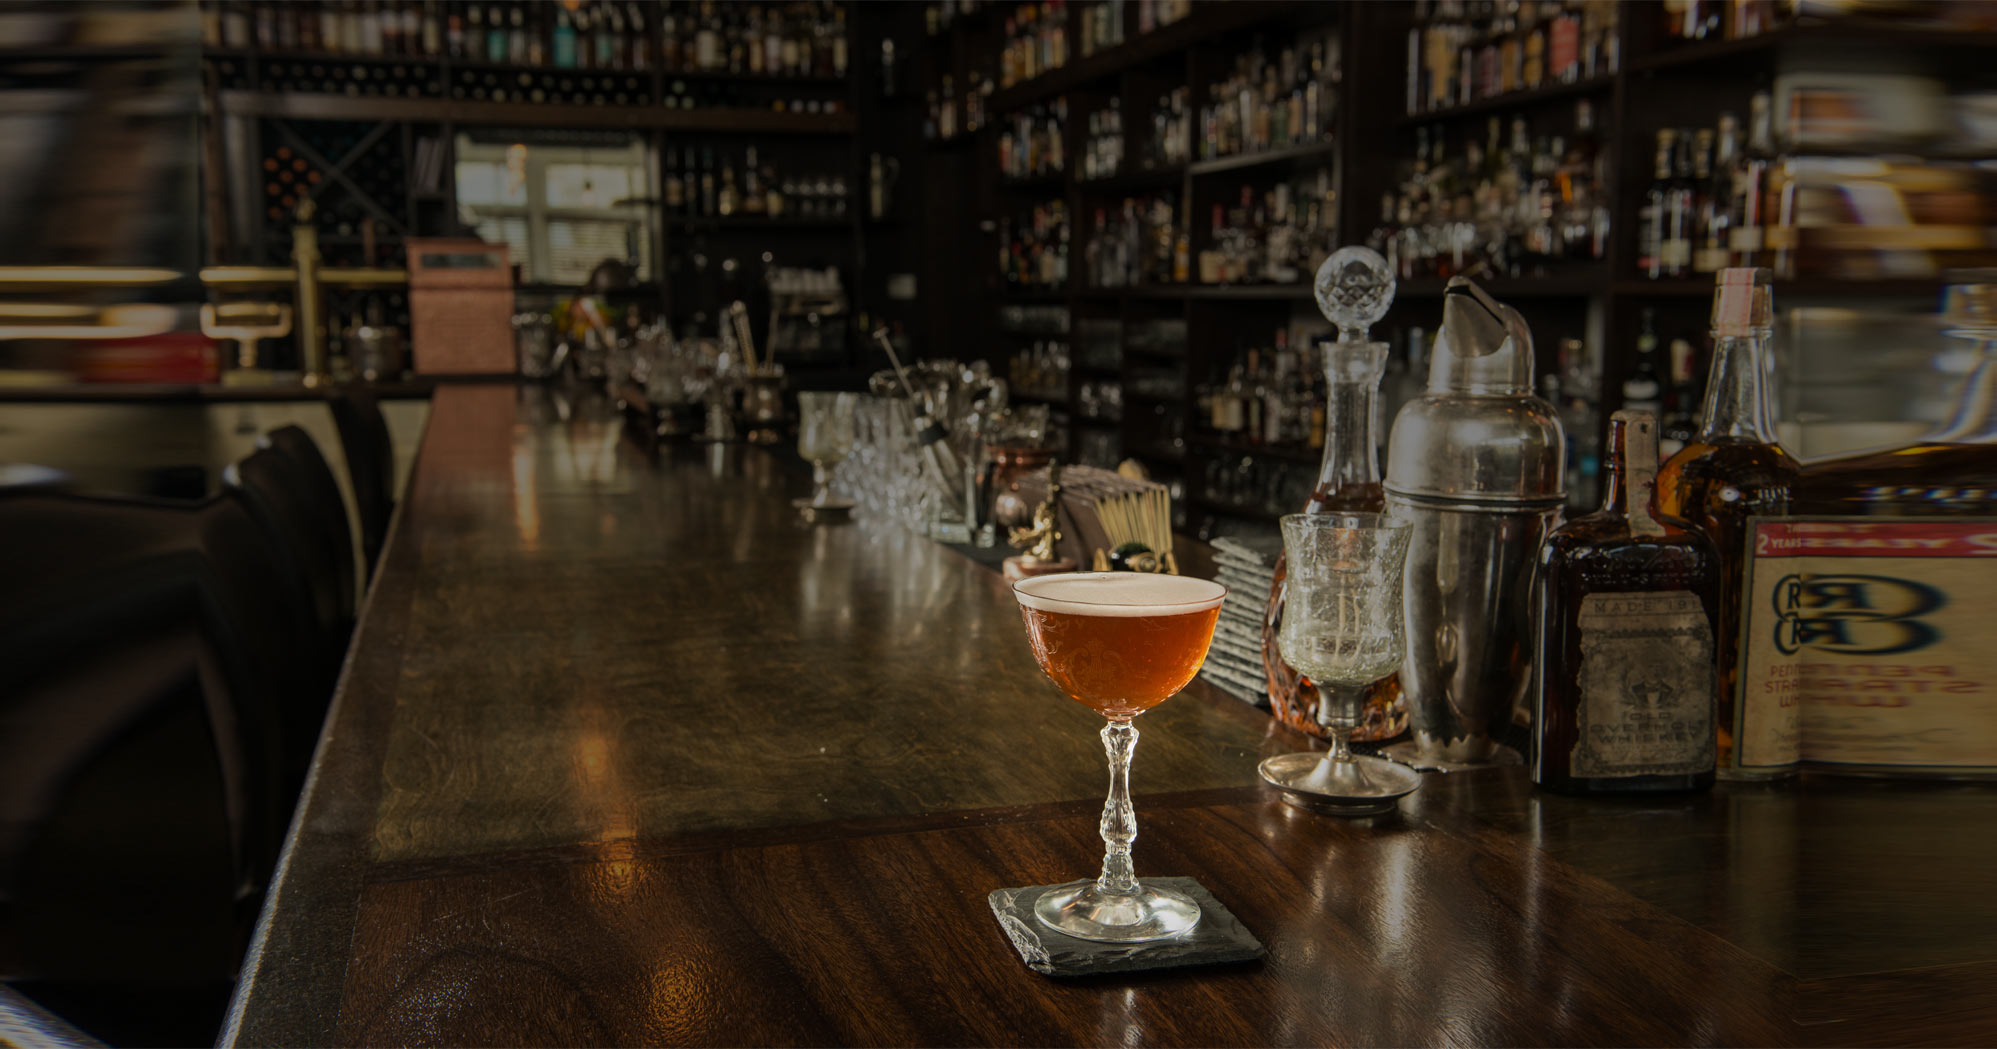
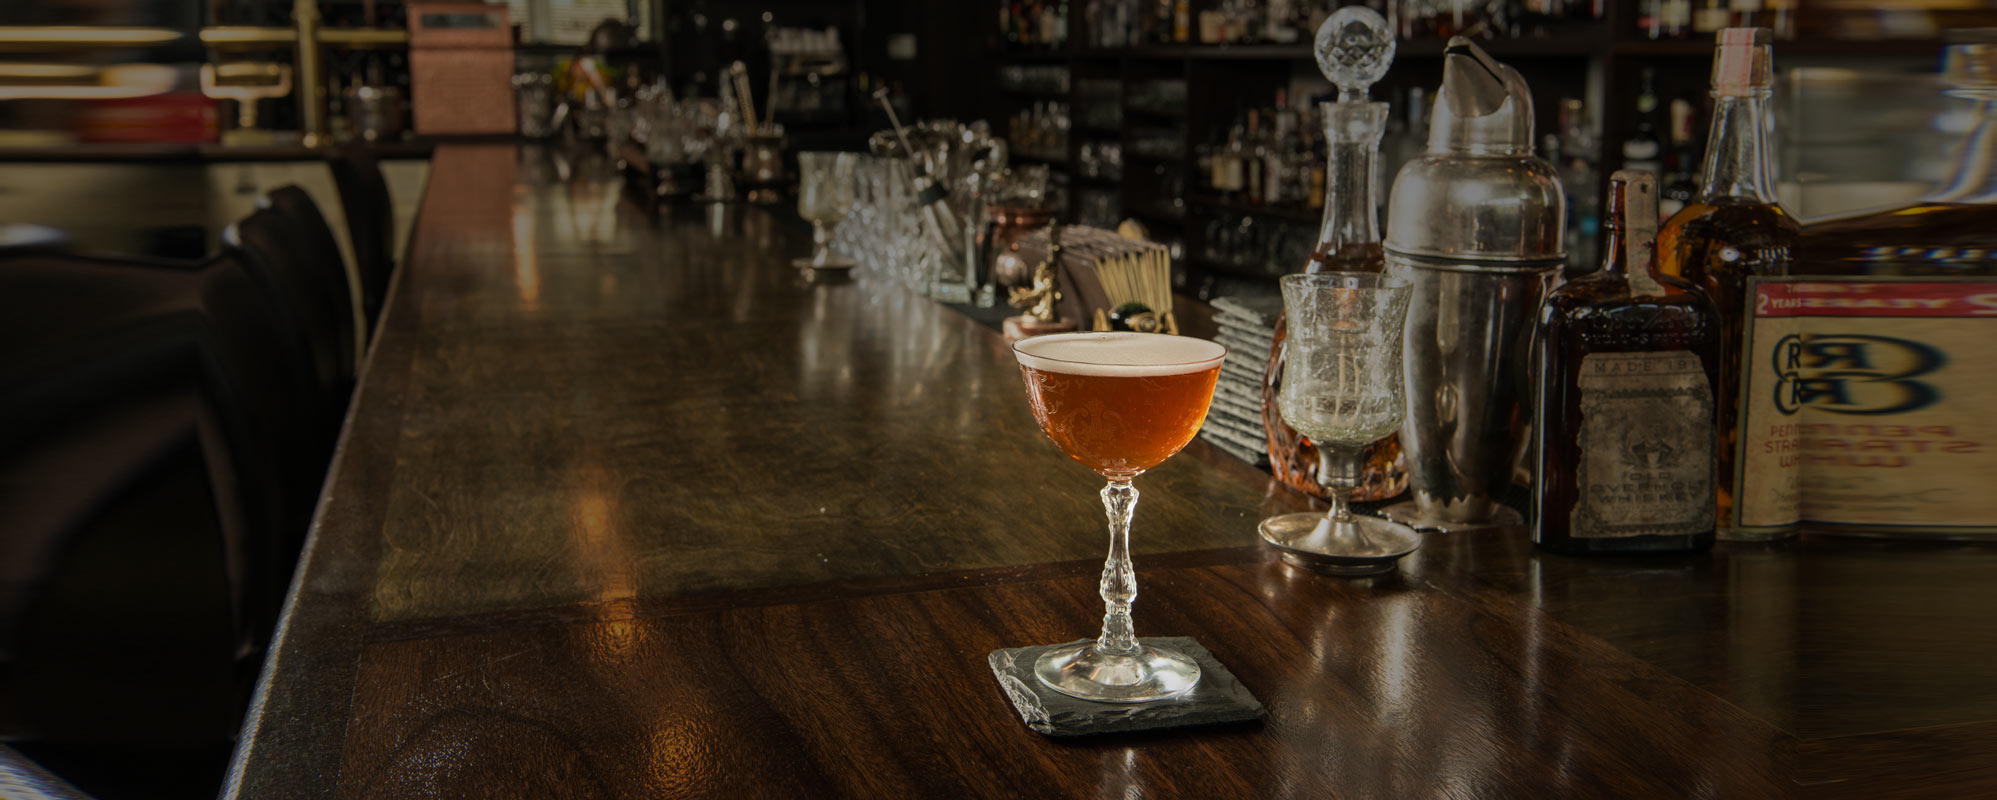
crop the actual image

diff --git a/htdocs/registration/registration.css b/htdocs/registration/registration.css
@@ -2,7 +2,7 @@
 {
   height: 640px; margin-top: -38px; padding-top: 130px;
   border-bottom: solid 10px #fff;
-  background: #444 url(promo.jpg) center -240px; text-shadow: 1px 1px 1px #000;
+  background: #444 url(promo.jpg) center top; text-shadow: 1px 1px 1px #000;
 }
 
 #friends-club-info .container
